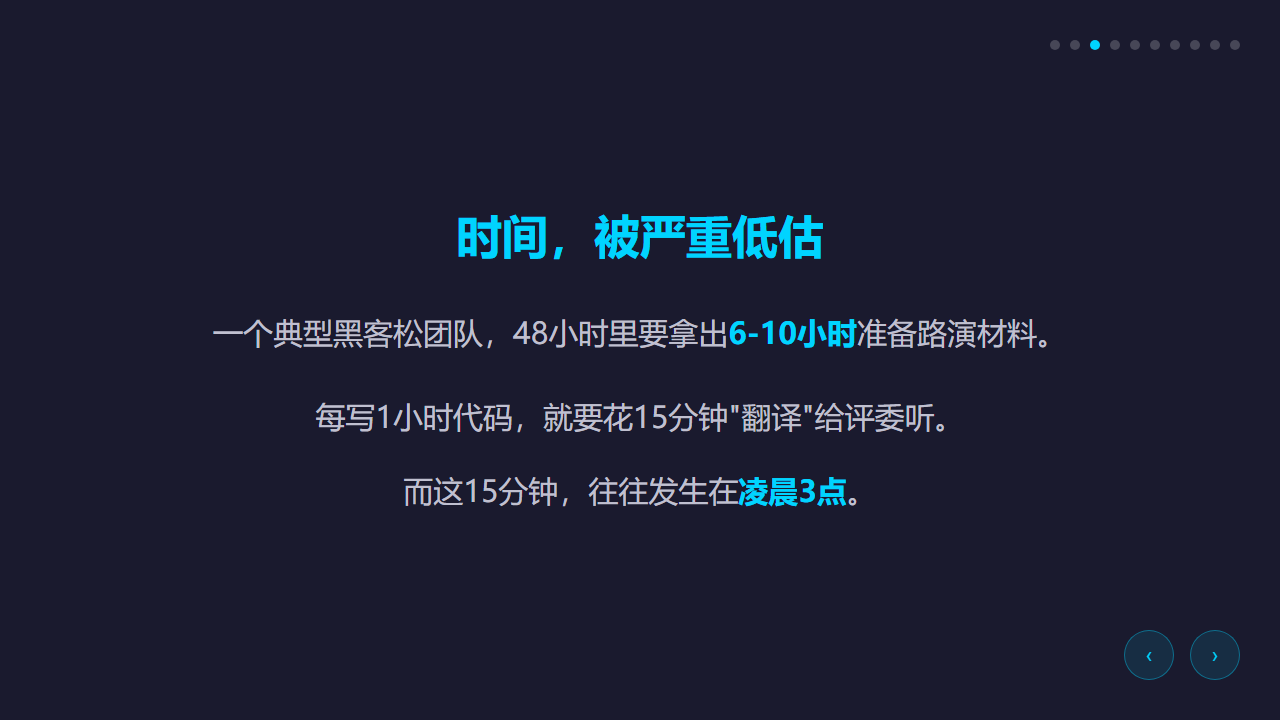
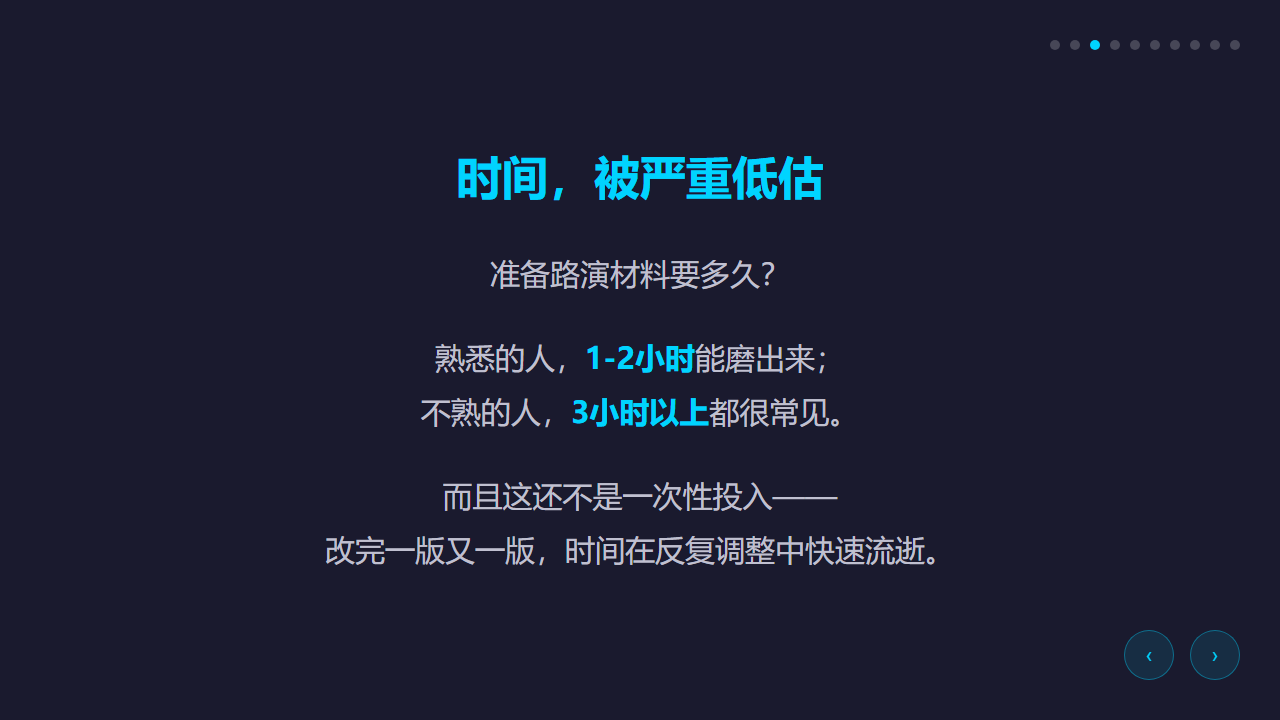
优化开场钩子与痛点数据，新增自举路演产物
- 将开场钩子改为百分之九十九的人被路演展示所担忧

- 调整路演准备时间表述为1-2小时/3小时以上

- 同步更新演讲稿与HTML路演页

- 新增项目简介、一句话介绍、交付清单

diff --git a/路演材料/黑客松路演魔术师_路演_v2.html b/路演材料/黑客松路演魔术师_路演_v2.html
@@ -210,15 +210,15 @@
     <div class="slide">
         <h2>一个真实的痛点</h2>
         <p>在座参加过黑客松的朋友，请举手。</p>
-        <p style="margin-top:30px;">我敢打赌，超过一半的人，在比赛最后一个晚上，<br><strong class="highlight">不是熬代码，而是熬PPT</strong>。</p>
-        <p style="margin-top:30px;">产品跑通了，表达却卡住了。</p>
+        <p style="margin-top:30px;">我敢打赌，超过<strong class="highlight">百分之九十九</strong>的人，<br>最后都会被路演展示所担忧。</p>
+        <p style="margin-top:30px;">产品跑通了，<br>却被<strong class="highlight">表达和展示</strong>拖了后腿。</p>
     </div>
 
     <div class="slide">
         <h2>时间，被严重低估</h2>
-        <p>一个典型黑客松团队，48小时里要拿出<strong class="highlight">6-10小时</strong>准备路演材料。</p>
-        <p style="margin-top:30px;">每写1小时代码，就要花15分钟"翻译"给评委听。</p>
-        <p style="margin-top:20px;">而这15分钟，往往发生在<strong class="highlight">凌晨3点</strong>。</p>
+        <p>准备路演材料要多久？</p>
+        <p style="margin-top:30px;">熟悉的人，<strong class="highlight">1-2小时</strong>能磨出来；<br>不熟的人，<strong class="highlight">3小时以上</strong>都很常见。</p>
+        <p style="margin-top:30px;">而且这还不是一次性投入——<br>改完一版又一版，时间在反复调整中快速流逝。</p>
     </div>
 
     <div class="slide">

diff --git a/路演材料/交付清单.md b/路演材料/交付清单.md
@@ -1,0 +1,46 @@
+# 交付清单 · 黑客松路演魔术师自举案例
+
+**生成时间**：2026-07-27  
+**路演类型**：竞赛Demo  
+**时长版本**：15分钟完整版  
+**风格版本**：数据驱动版 + 故事情感版
+
+## 已生成产物
+
+| # | 产物 | 文件路径 | 状态 |
+|---|------|----------|------|
+| 1 | 项目简介 | [项目简介.md](./项目简介.md) | ✅ 已生成 |
+| 2 | 一句话介绍 | [一句话介绍.md](./一句话介绍.md) | ✅ 已生成 |
+| 3 | HTML路演页 | [黑客松路演魔术师_路演_v2.html](./黑客松路演魔术师_路演_v2.html) | ✅ 已生成 |
+| 4 | 演讲腹稿 | [黑客松路演魔术师_演讲稿_v2.md](./黑客松路演魔术师_演讲稿_v2.md) | ✅ 已生成 |
+| 5 | 图表素材包 | [架构图.html](../架构图.html) | ✅ 已生成 |
+| 6 | 预测问答 | [黑客松路演魔术师_问答.md](./黑客松路演魔术师_问答.md) | ✅ 已生成 |
+
+## 未生成产物（本次未勾选）
+
+| 环节 | 产物 | 原因 |
+|------|------|------|
+| 赛前提报 | 项目报名表 | 无赛事要求 |
+| 赛前提报 | 参赛声明 | 无赛事要求 |
+| 现场展示 | PPT演示文稿 | MVP阶段未实现 |
+| 现场展示 | Demo操作清单 | 本次未勾选 |
+| 评委互动 | 答辩备忘录 | 本次未勾选 |
+| 评委互动 | 技术FAQ | 本次未勾选 |
+| 评委互动 | 红线应答卡 | 本次未勾选 |
+| 赛后传播 | 项目海报 | 本次未勾选 |
+| 赛后传播 | 社交媒体文案 | 本次未勾选 |
+| 赛后传播 | GitHub README | 本次未勾选 |
+| 赛后传播 | 短视频脚本 | 本次未勾选 |
+| 存档复用 | 项目档案JSON | 本次未勾选 |
+| 存档复用 | 完整素材包ZIP | 本次未勾选 |
+
+## 本地验证项
+
+| 检查项 | 结果 |
+|--------|------|
+| HTML路演页可正常打开 | ✅ |
+| 10页幻灯片切换正常 | ✅ |
+| 演讲稿时长约15分钟 | ✅ |
+| 预测问答8题覆盖核心问题 | ✅ |
+| 项目简介中英双语 | ✅ |
+| 一句话介绍中英双语 | ✅ |

diff --git a/路演材料/项目简介.md b/路演材料/项目简介.md
@@ -1,0 +1,15 @@
+# 项目简介 · 黑客松路演魔术师
+
+**黑客松路演魔术师**是一个专为黑客松和竞赛场景设计的路演全链助手。它能把任意成果的源代码或项目资料，通过7步交互式工作流，一键转换为竞赛级的路演材料。
+
+工具覆盖8类路演场景（竞赛Demo、投资路演、技术答辩、产品推广、电梯演讲、展位展示、技术讲课、资源对接），支持19种产物输出（从赛前提报到赛后传播），并提供六维版本矩阵（时长、侧重、风格、格式、语言、团队），让不同场景、不同受众都能获得匹配的路演材料。
+
+核心设计遵循"先勾选，后生成"原则：用户先选择需要的产物和版本，工具再精准生成，避免无效产出浪费时间和算力。所有流程在本地完成，不联网、不外传，适用于国内开发环境。
+
+---
+
+**Project Brief · Hackathon Roadshow Magician**
+
+Hackathon Roadshow Magician is an all-in-one roadshow assistant built for hackathons and competitions. It transforms any project source code or materials into competition-grade pitch decks through a 7-step interactive workflow.
+
+The tool covers 8 roadshow scenarios, supports 19 deliverable types across 5 stages, and offers a 6-dimensional version matrix. Its core principle is "select first, generate later" — users pick what they need before any output is produced, saving time and compute. Fully local, no cloud required.

diff --git a/路演材料/黑客松路演魔术师_演讲稿_v2.md b/路演材料/黑客松路演魔术师_演讲稿_v2.md
@@ -12,9 +12,7 @@
 
 （停顿，环视）
 
-手可以放下了。我敢打赌，你们中超过一半的人，在比赛最后一个晚上，不是熬代码，而是熬PPT。
-
-产品跑通了，表达却卡住了。
+手可以放下了。我敢打赌，超过百分之九十九的人，最后都会被路演展示所担忧——产品跑通了，却被表达和展示拖了后腿。
 
 这就是我要解决的问题。
 
@@ -26,11 +24,11 @@
 
 ## 第2页 · 痛点：时间被严重低估（1分钟）
 
-一个典型黑客松团队，48小时里平均要拿出6到10小时准备路演材料。
+准备路演材料要多久？
 
-换算一下：你每写1小时代码，就要花15分钟"翻译"给评委听。而这15分钟，往往发生在凌晨3点。
+熟悉路演的人，1到2小时能磨出来；不熟悉的人，3个小时以上都很常见。而且这还不是一次性投入——改完一版又一版，时间在反复调整中快速流逝。
 
-更残酷的是——这还不是个例。我们访谈过的团队中，超过六成的人认为"讲稿比代码难写"，近一半的团队因为材料没准备好，导致Demo演示被压缩。
+结果就是：本可以拿来优化Demo的精力，被大量消耗在"怎么讲好"这件事上。
 
 ---
 

diff --git a/路演材料/一句话介绍.md b/路演材料/一句话介绍.md
@@ -1,0 +1,5 @@
+# 一句话介绍
+
+**中文**：黑客松路演魔术师——把任意源代码一键变成竞赛级路演材料的本地助手。
+
+**English**: Hackathon Roadshow Magician — turn any source code into competition-ready pitch materials, locally.
